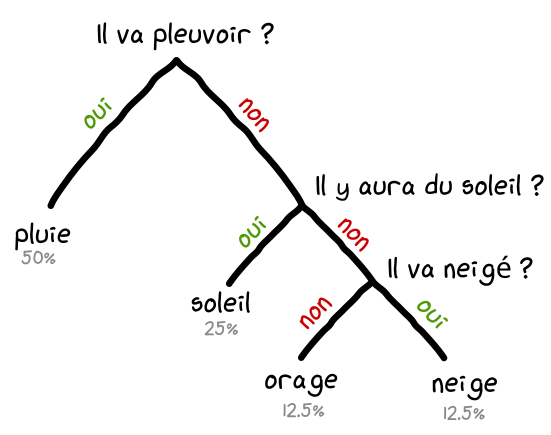
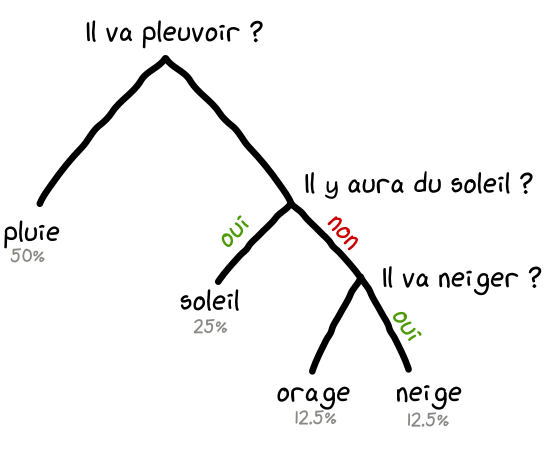
typo

Changed region(s): [[0.0, 0.0299, 0.9873, 0.9862]]

diff --git a/content/entropy.md b/content/entropy.md
@@ -14,7 +14,7 @@ Ce billet a pour objectif de vous faire comprendre ce qu'est l'entropie au sens 
 
 
 ## Une mesure de l'incertitude
-L'entropie peut être vue comme une mesure de l'incertitude d'un événement en fonction de la connaissance que nous avons. Par exemple, depuis que je suis petit le soleil se lève tous les jours. Je suis donc certain qu'il se lèvera demain. En revanche, il est incertain que je croise aujourd'hui un chat noir dans la rue. Cela m'est déjà arrivé plusieurs fois, mais rien ne garantit que cela arrive aujourd'hui. Pour lever cette incertitude, je dois récupérer une certaine quantité d'**information**...
+L'entropie peut être vue comme une mesure de l'incertitude d'un événement en fonction de la connaissance que nous avons. Par exemple depuis que je suis petit, le soleil se lève tous les jours. Je suis donc certain qu'il se lèvera demain. En revanche, il est incertain que je croise aujourd'hui un chat noir dans la rue. Cela m'est déjà arrivé plusieurs fois, mais rien ne garantit que cela arrive aujourd'hui. Pour lever cette incertitude, je dois récupérer une certaine quantité d'**information**...
 
 <div class="figure">     <img src="../images/entropy/draw.png" />      <div class="legend"> Vous ne pouvez recevoir qu'une réponse par oui ou par non. Utiliser votre carnet pour poser le minimum de question </div> </div>
 
@@ -99,7 +99,7 @@ Imaginez maintenant que les prévisions de votre carnet ne soient pas équiproba
 </center>
 
 
-Pour économiser l'énergie du phare à long terme, il vous faut une bonne stratégie pour poser les questions. En effet, si vous lui posez comme question "Va-t-il pleuvoir aujourd'hui?", il y a 1 chance sur 2 qu'il réponde  par **oui**. Et vous n'aurez plus à lui poser d'autre question. Super économique. En revanche, si il répond **non**, il faudra peut-être poser 2 questions supplémentaires, soit 3 questions en tout pour lever l'incertitude. Ce qui est plus que nos 2 bits vu précédemment. 
+Pour économiser l'énergie du phare à long terme, il vous faut poser vos questions de façon stratégique. En effet, si vous lui posez comme question "Va-t-il pleuvoir aujourd'hui?", il y a 1 chance sur 2 qu'il réponde  par **oui**. Et vous n'aurez plus à lui poser d'autre question. Super économique. En revanche, si il répond **non**, il faudra peut-être poser 2 questions supplémentaires, soit 3 questions en tout pour lever l'incertitude. Ce qui est plus que nos 2 bits vu précédemment. 
 Mais en raisonnant sur plusieurs jours, l'économie est évidente. Dans 50% des cas il faudra poser 1 question, dans 25% des cas 2 questions et 3 questions dans le dernier quart.
 Donc en moyenne, l'arbre décisionnel suivant est le plus économique sur le temps: 
 
@@ -126,8 +126,8 @@ $$H(P) =  -\sum_i p_i \log_2(p_i)$$
 Si vous appliquez cette formule sur les 4 distributions des cas vus précédements, vous devriez retrouver le nombre de question à poser (1 bits, 0 bits, 2 bits et 1.75 bits). 
 L'entropie est donc une mesure de l'incertitude calculée en bits. Elle est d'autant plus grande que l'incertitude est grande. Plus exactement, l'entropie est maximale lorsque tous les événements possibles ( pluie, neige ...) sont équiprobables. L'entropie est ainsi une mesure permettant de caractériser une distribution statistique.
 
-## Entropie croisé et divergence de Kullback-Leibler
-L'[entropie croisé ](https://fr.wikipedia.org/wiki/Entropie_crois%C3%A9e)(cross entropy) permet de quantifier la dissimilarité entre deux distributions en comparant leurs entropies. Par exemple pour comparer une distribution observée P à une distribution théorique Q.
+## Entropie croisée et divergence de Kullback-Leibler
+L'[entropie croisée ](https://fr.wikipedia.org/wiki/Entropie_crois%C3%A9e)(cross entropy) permet de quantifier la dissimilarité entre deux distributions en comparant leurs entropies. Par exemple pour comparer une distribution observée P à une distribution théorique Q.
 En reprenant l'exemple précédant, imaginez que vous êtes sur une îles P avec un carnet P mais que vous posez vos questions au phare de l'îles Q qui avait donné d'autre prédictions inscrites sur le carnet Q. Combien de question supplémentaire allez vous poser au phare Q avec votre carnet P ?    
 Ce nombre s'obtient en calculant la [divergence de Kullback-Leibler](https://fr.wikipedia.org/wiki/Divergence_de_Kullback-Leibler) (ou divergence K-L ou  entropie relative):
 
@@ -143,13 +143,13 @@ $$H(P,Q) =  H(p) + D_{KL}(P||Q) $$
 $$H(P,Q) = -\sum_i p_i \log_2(q_i)$$
 </center>
 
-L'entropie croisé est très utilisé en intelligence artificielle, dans les méthode de classifications suppervisées. En effet, elle sert de [fonction objective](https://fr.wikipedia.org/wiki/Optimisation_lin%C3%A9aire) à minimiser. Par exemple, un [réseau de neurones artificiels](https://fr.wikipedia.org/wiki/R%C3%A9seau_de_neurones_artificiels) va être entrainer afin que sa distribution prédite soit le plus proche possible de la distribution réelle observée sur le jeux d'entrainement.  
+L'entropie croisée est très utilisée en intelligence artificielle, dans les méthodes de classifications suppervisées. En effet, elle sert de [fonction objective](https://fr.wikipedia.org/wiki/Optimisation_lin%C3%A9aire) à minimiser. Par exemple, un [réseau de neurones artificiels](https://fr.wikipedia.org/wiki/R%C3%A9seau_de_neurones_artificiels) va être entrainé afin que la distribution prédite soit le plus proche possible de la distribution réelle observée.  
 
 ## Conclusion
 
 L'entropie mesure la quantité d'information minimum nécessaire pour vous transmettre un message.  Ce n'est donc pas étonnant qu'on retrouve ce concept dans les algorithmes de compression comme le [codage de Huffman](https://fr.wikipedia.org/wiki/Codage_de_Huffman) ou en [cryptographie](https://fr.wikipedia.org/wiki/Cryptographie).    
-Il y a aussi [le principe d'entropie maximale](https://fr.wikipedia.org/wiki/Principe_d%27entropie_maximale) qui consiste à choisir pour des données, le meilleur modèle qui maximise l'entropie. En encore la décomposition par minimisation de l'entropie, bien illustré sur [cette image](https://media.nature.com/m685/nature-assets/ismej/journal/v9/n4/images/ismej2014195f1.jpg). J'essaierai de discuter tous ces concepts dans des billets dédiés.      
-Je n'oublie quand même pas de conclure avec l'ADN, dont la séquence peut être vue comme une suite de 4 événements aléatoires (A,C,G,T) à l'instar de nos prévisions météorologique. Par exemple, nous pouvons aligner plusieurs séquences d'ADN et calculer la fréquence des 4 nucléotides sur chaque position. En calculant l'entropie sur chaque colonne, vous pouvez quantifier une certitude (2-entropie) sur la présence d'un nucléotide dans un motif particulier. C'est ce qui est illustré dans le [logo-plot](https://en.wikipedia.org/wiki/Sequence_logo) ci-dessous. Regardez la légende sur l'axe des ordonnées, et crier avec moi : "La génétique c'est de l'informatique"!
+Il y a aussi [le principe d'entropie maximale](https://fr.wikipedia.org/wiki/Principe_d%27entropie_maximale) qui consiste à choisir pour des données, le meilleur modèle qui maximise l'entropie. Ou encore la décomposition par minimisation de l'entropie, bien illustré sur [cette image](https://media.nature.com/m685/nature-assets/ismej/journal/v9/n4/images/ismej2014195f1.jpg). J'essaierai de discuter tous ces concepts dans des billets dédiés.      
+Je n'oublie quand même pas de conclure avec l'ADN, dont la séquence peut être vue comme une suite de 4 événements aléatoires (A,C,G,T) à l'instar de nos prévisions météorologiques. Par exemple, nous pouvons aligner plusieurs séquences d'ADN et calculer la fréquence des 4 nucléotides sur chaque position. En calculant l'entropie sur chaque colonne, vous pouvez quantifier une certitude (2-entropie) sur la présence d'un nucléotide dans un motif particulier. C'est ce qui est illustré dans le [logo-plot](https://en.wikipedia.org/wiki/Sequence_logo) ci-dessous. Regardez la légende sur l'axe des ordonnées, et crier avec moi : "La génétique c'est de l'informatique"!
 
 
 <center>
